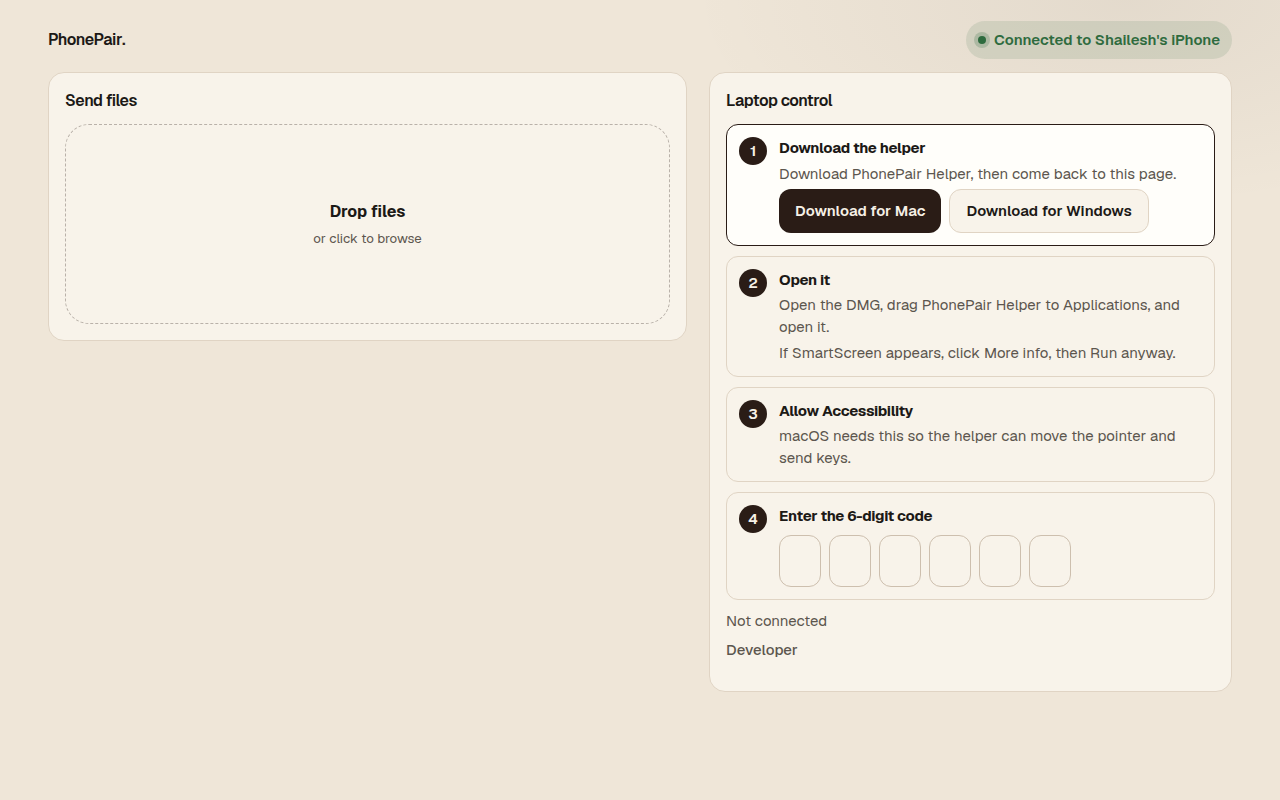
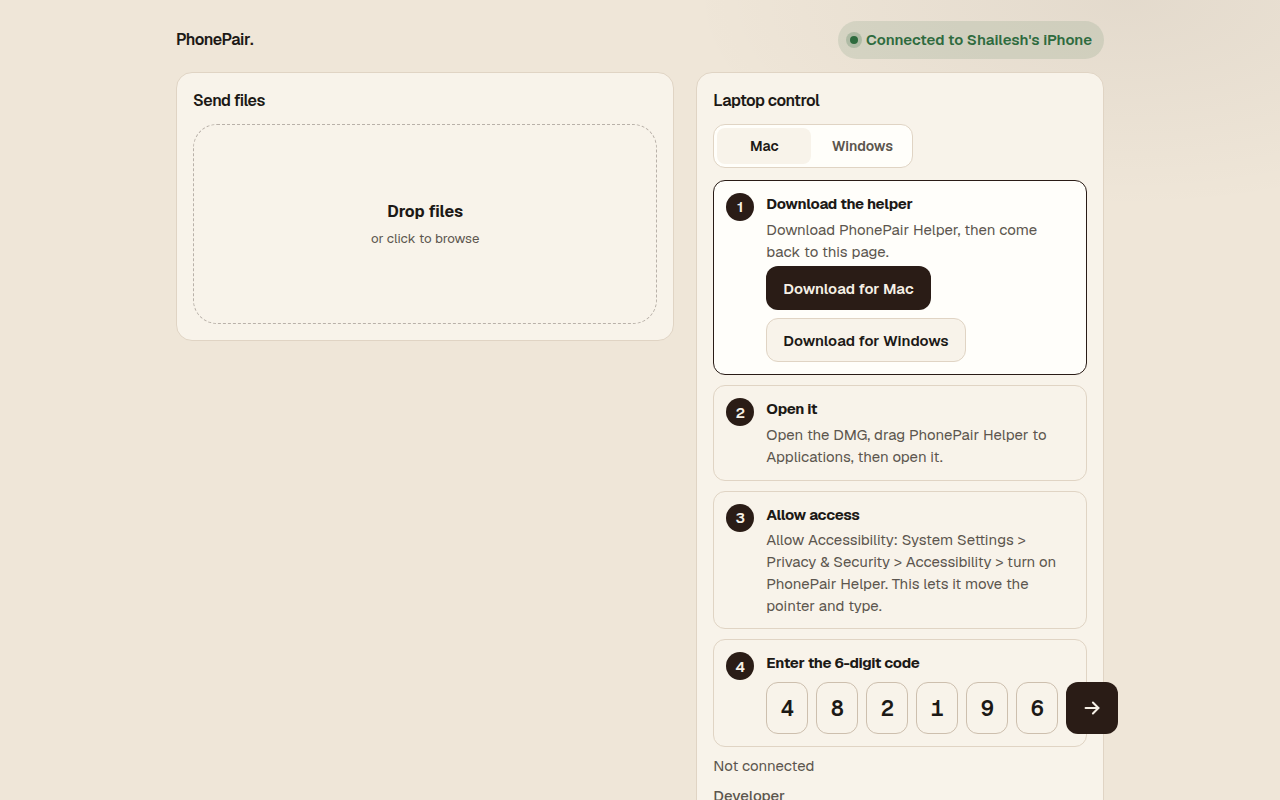
Revise connect guide (OS toggle, go button)

diff --git a/design/specs-2026-11-12/b-connect.html b/design/specs-2026-11-12/b-connect.html
@@ -9,8 +9,12 @@
 <style>
 @media (max-width:700px){
   .grid .col:first-child{display:none}
-  .pp-step{padding:10px}
-  .pp-steps{gap:8px}
+  .pp-step{padding:8px 10px}
+  .pp-steps{gap:6px}
+  .pp-code{gap:4px}
+  .pp-code-input{height:44px;max-width:34px;font-size:18px;min-width:0}
+  .pp-code-go{width:40px;height:44px}
+  .pp-step p{margin-top:2px}
 }
 </style>
 </head>
@@ -30,6 +34,10 @@
       <div class="col">
         <section class="card pad" data-testid="remote-panel" data-state="steps" data-os="mac">
           <h3>Laptop control</h3>
+          <div class="pp-os-toggle" role="group" aria-label="Operating system">
+            <button type="button" data-os-choice="mac" aria-selected="true">Mac</button>
+            <button type="button" data-os-choice="windows" aria-selected="false">Windows</button>
+          </div>
           <button type="button" class="btn big pp-connect" data-testid="connect-laptop">Connect laptop control</button>
           <ol class="pp-steps" data-testid="helper-steps">
             <li class="pp-step pp-step--active">
@@ -38,7 +46,7 @@
                 <b>Download the helper</b>
                 <p class="mut small" data-testid="helper-hint">Download PhonePair Helper, then come back to this page.</p>
                 <p class="helper-downloads">
-                  <a class="btn pp-os-btn on" data-testid="download-mac" href="https://github.com/Shailesh200/phonepair/releases/latest">Download for Mac</a>
+                  <a class="btn ghost pp-os-btn" data-testid="download-mac" href="https://github.com/Shailesh200/phonepair/releases/latest">Download for Mac</a>
                   <a class="btn ghost pp-os-btn" data-testid="download-win" href="https://github.com/Shailesh200/phonepair/releases/latest">Download for Windows</a>
                 </p>
               </div>
@@ -47,15 +55,16 @@
               <span class="step-n">2</span>
               <div>
                 <b>Open it</b>
-                <p class="mut small" data-testid="mac-open-steps">Open the DMG, drag PhonePair Helper to Applications, and open it.</p>
-                <p class="mut small" data-testid="win-open-steps">If SmartScreen appears, click More info, then Run anyway.</p>
+                <p class="mut small for-mac" data-testid="mac-open-steps">Open the DMG, drag PhonePair Helper to Applications, then open it.</p>
+                <p class="mut small for-win" data-testid="win-open-steps">Run the installer. If SmartScreen appears, click More info, then Run anyway.</p>
               </div>
             </li>
-            <li class="pp-step pp-step--mac">
+            <li class="pp-step">
               <span class="step-n">3</span>
               <div>
-                <b>Allow Accessibility</b>
-                <p class="mut small">macOS needs this so the helper can move the pointer and send keys.</p>
+                <b>Allow access</b>
+                <p class="mut small for-mac">Allow Accessibility: System Settings &gt; Privacy &amp; Security &gt; Accessibility &gt; turn on PhonePair Helper. This lets it move the pointer and type.</p>
+                <p class="mut small for-win">Allow access: if Windows asks to allow PhonePair Helper through the firewall or to make changes, click Allow / Yes.</p>
               </div>
             </li>
             <li class="pp-step">
@@ -63,17 +72,20 @@
               <div>
                 <b>Enter the 6-digit code</b>
                 <div class="pp-code" data-testid="helper-code" role="group" aria-label="Helper code">
-                  <input class="pp-code-input" inputmode="numeric" maxlength="1" aria-label="Digit 1">
-                  <input class="pp-code-input" inputmode="numeric" maxlength="1" aria-label="Digit 2">
-                  <input class="pp-code-input" inputmode="numeric" maxlength="1" aria-label="Digit 3">
-                  <input class="pp-code-input" inputmode="numeric" maxlength="1" aria-label="Digit 4">
-                  <input class="pp-code-input" inputmode="numeric" maxlength="1" aria-label="Digit 5">
-                  <input class="pp-code-input" inputmode="numeric" maxlength="1" aria-label="Digit 6">
+                  <input class="pp-code-input" inputmode="numeric" maxlength="1" aria-label="Digit 1" value="4">
+                  <input class="pp-code-input" inputmode="numeric" maxlength="1" aria-label="Digit 2" value="8">
+                  <input class="pp-code-input" inputmode="numeric" maxlength="1" aria-label="Digit 3" value="2">
+                  <input class="pp-code-input" inputmode="numeric" maxlength="1" aria-label="Digit 4" value="1">
+                  <input class="pp-code-input" inputmode="numeric" maxlength="1" aria-label="Digit 5" value="9">
+                  <input class="pp-code-input" inputmode="numeric" maxlength="1" aria-label="Digit 6" value="6">
+                  <button type="button" class="pp-code-go" aria-label="Connect">
+                    <svg viewBox="0 0 24 24" fill="none" stroke="currentColor" stroke-width="2.2" stroke-linecap="round" stroke-linejoin="round" aria-hidden="true"><path d="M5 12h14"/><path d="m13 6 6 6-6 6"/></svg>
+                  </button>
                 </div>
               </div>
             </li>
           </ol>
-          <p class="mut small" data-testid="helper-status" aria-live="polite" style="margin-top:10px">Not connected</p>
+          <p class="mut small" data-testid="helper-status" aria-live="polite" style="margin-top:8px">Not connected</p>
           <details>
             <summary class="pp-dev-link">Developer</summary>
             <p class="mut small" data-testid="helper-dev-note"><code>cd helper && npm start</code></p>
@@ -82,5 +94,15 @@
       </div>
     </div>
   </div>
+  <script>
+    if (location.hash === "#windows") {
+      var card = document.querySelector("[data-testid=remote-panel]");
+      card.dataset.os = "windows";
+      card.querySelector("[data-os-choice=mac]").setAttribute("aria-selected", "false");
+      card.querySelector("[data-os-choice=windows]").setAttribute("aria-selected", "true");
+      card.querySelectorAll(".pp-code-input").forEach(function (el) { el.value = ""; });
+      card.querySelector(".pp-code-go").disabled = true;
+    }
+  </script>
 </body>
 </html>

diff --git a/design/specs-2026-11-12/espresso-additions.css b/design/specs-2026-11-12/espresso-additions.css
@@ -52,7 +52,8 @@
 .pp-step p { margin-top: 4px; }
 .pp-step--active { border-color: var(--accent); background: var(--tile); }
 .pp-step--done .step-n { background: var(--ok); }
-[data-os="windows"] .pp-step--mac { display: none; }
+[data-os="mac"] .for-win,
+[data-os="windows"] .for-mac { display: none; }
 
 [data-state="idle"] .pp-steps,
 [data-state="connected"] .pp-steps { display: none; }
@@ -61,16 +62,63 @@
 [data-state="connected"] .pp-connect,
 [data-state="error"] .pp-connect { display: none; }
 
+.pp-os-toggle {
+  display: grid;
+  grid-template-columns: 1fr 1fr;
+  width: 200px;
+  gap: 4px;
+  padding: 3px;
+  margin-bottom: 12px;
+  background: var(--surface-2);
+  border: 1px solid var(--line);
+  border-radius: var(--r-md);
+}
+.pp-os-toggle button {
+  min-height: 36px;
+  border-radius: 8px;
+  font-size: 14px;
+  font-weight: 600;
+  color: var(--muted);
+}
+.pp-os-toggle button[aria-selected="true"],
+[data-os="mac"] .pp-os-toggle [data-os-choice="mac"],
+[data-os="windows"] .pp-os-toggle [data-os-choice="windows"] {
+  background: var(--surface);
+  color: var(--text);
+}
 .pp-os-btn { min-height: 44px; }
-.pp-os-btn.on {
+.pp-os-btn.on,
+[data-os="mac"] [data-testid="download-mac"],
+[data-os="windows"] [data-testid="download-win"] {
   background: var(--accent);
   color: var(--accent-ink);
+  border-color: transparent;
 }
 
-.pp-code { display: flex; gap: 8px; margin-top: 8px; }
+.pp-code { display: flex; align-items: center; gap: 8px; margin-top: 8px; }
+.pp-code-go {
+  width: 52px;
+  height: 52px;
+  flex: none;
+  border-radius: var(--r-md);
+  background: var(--accent);
+  color: var(--accent-ink);
+  display: grid;
+  place-items: center;
+  padding: 0;
+}
+.pp-code-go svg { width: 22px; height: 22px; }
+.pp-code-go:disabled {
+  background: var(--surface-2);
+  color: var(--muted);
+  border: 1px solid var(--line);
+  cursor: default;
+}
 .pp-code-input {
   width: 42px;
   height: 52px;
+  flex: 1 1 0;
+  max-width: 48px;
   text-align: center;
   font-family: var(--mono);
   font-size: 22px;

diff --git a/design/specs-2026-11-12/SPEC.md b/design/specs-2026-11-12/SPEC.md
@@ -33,12 +33,12 @@ One card, `data-testid="remote-panel"`, `data-os="mac"|"windows"`, `data-state` 
 | `connected` | Steps hidden. `helper-status` uses `.on` (existing green). Copy: **Connected**. |
 | `error` | Existing `.err`. Copy stays: **Couldn't reach the helper. Make sure it's running, and click Allow if Chrome asks about local network access, then try again.** Rejected code: **That code was rejected. Check the helper window and try again.** |
 
-Steps (all visible in `steps`, not a wizard):
+`.pp-os-toggle` sits at the top of the guide (Mac / Windows) and auto-selects the detected OS (`data-os`). Steps stay open together, not a wizard.
 
-1. **Download the helper.** `data-testid="download-mac"` and `download-win`. Add `.on` to the detected OS.
-2. **Open it.** Mac `data-testid="mac-open-steps"`: Open the DMG, drag PhonePair Helper to Applications, and open it. Windows `data-testid="win-open-steps"`: If SmartScreen appears, click More info, then Run anyway.
-3. **Allow Accessibility** (`.pp-step--mac`, hidden when `data-os="windows"`). Why: macOS needs this so the helper can move the pointer and send keys.
-4. **Enter the 6-digit code.** Six `.pp-code-input` boxes inside `[data-testid="helper-code"]`. Digits only, length 6.
+1. **Download the helper.** `data-testid="download-mac"` and `download-win`. Highlight the selected OS (`.on`).
+2. **Open it.** Mac `mac-open-steps`: Open the DMG, drag PhonePair Helper to Applications, then open it. Windows `win-open-steps`: Run the installer. If SmartScreen appears, click More info, then Run anyway.
+3. **Allow access.** Mac: Allow Accessibility: System Settings > Privacy & Security > Accessibility > turn on PhonePair Helper. This lets it move the pointer and type. Windows: Allow access: if Windows asks to allow PhonePair Helper through the firewall or to make changes, click Allow / Yes.
+4. **Enter the 6-digit code.** Six `.pp-code-input` boxes inside `[data-testid="helper-code"]`. `.pp-code-go` sits on the right, same height as the boxes: `--accent` background, `--accent-ink` arrow, `aria-label="Connect"`. Disabled and muted until 6 digits are entered.
 
 No “run from source” line. `.pp-dev-link` (**Developer**) reveals `data-testid="helper-dev-note"`: `cd helper && npm start`.
 
